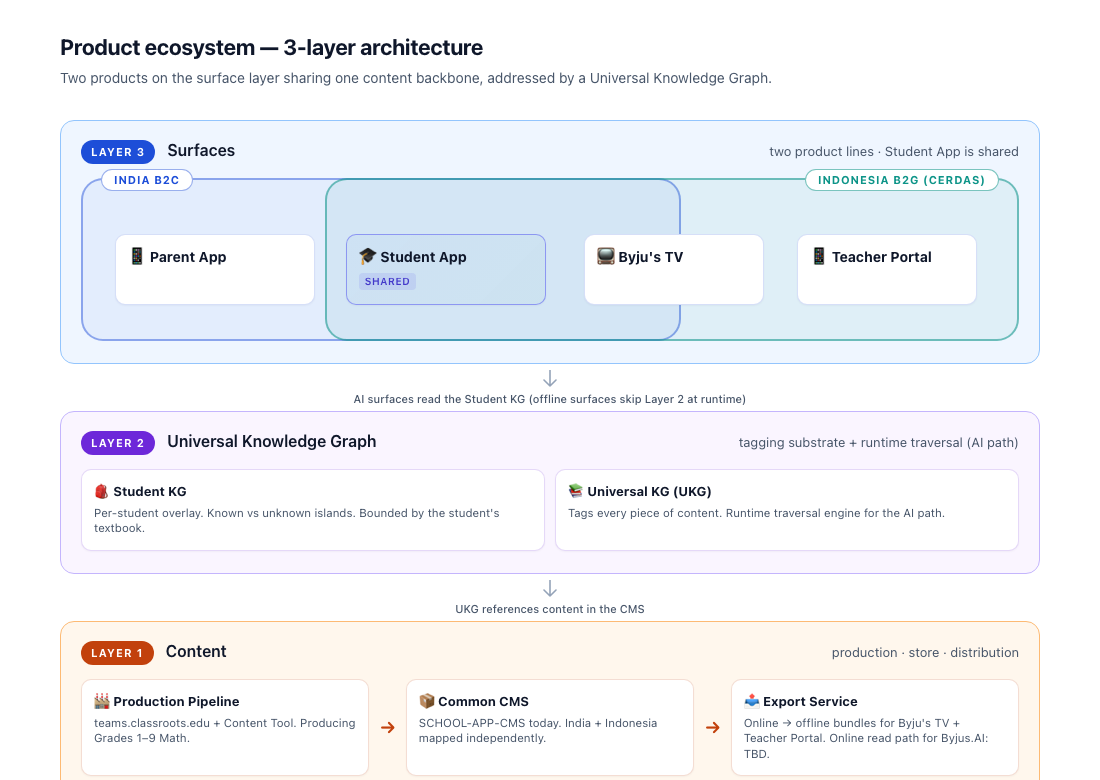
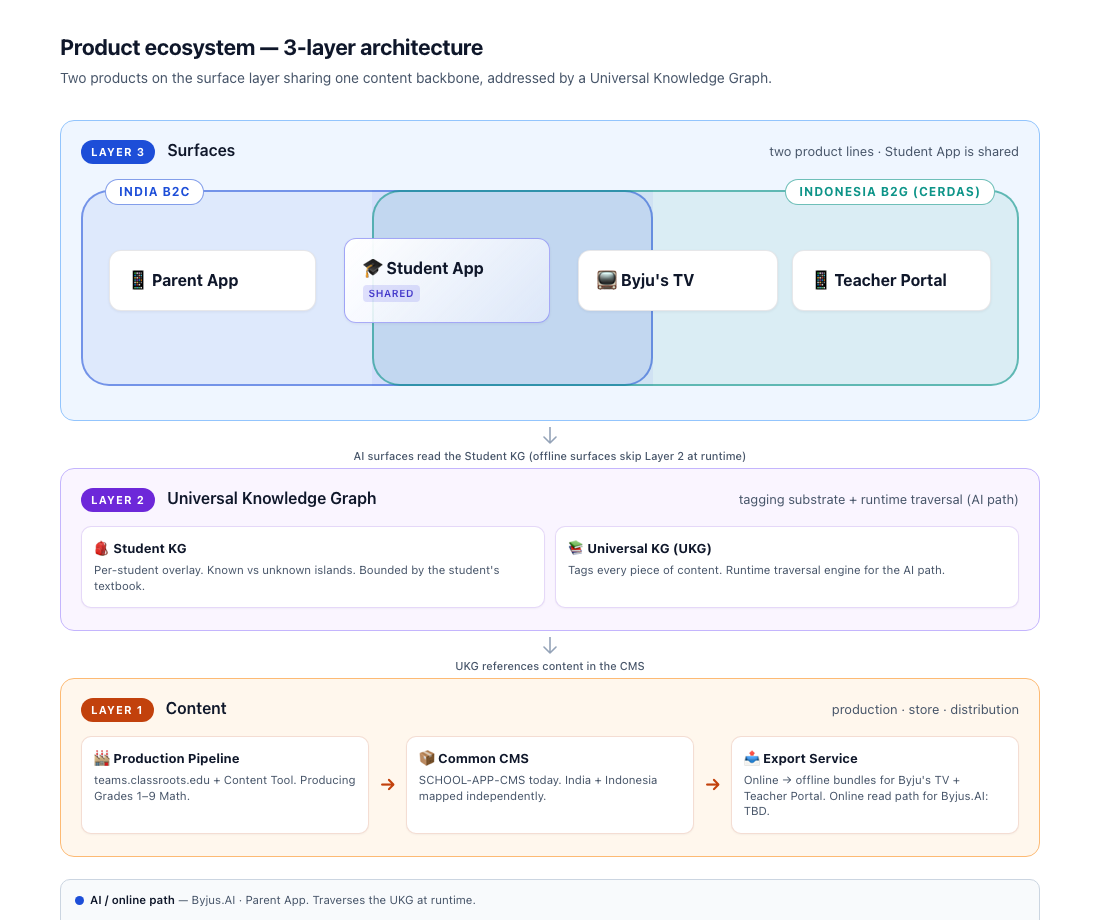
Layer 3: cleaner 3-region Venn with shaded intersection, bigger cards

Changed region(s): [[0.0618, 0.0308, 0.9273, 0.9846], [0.68, 0.5231, 0.9273, 0.5846], [0.0618, 0.4, 0.0927, 0.4308]]

diff --git a/ecosystem-3-layer.html b/ecosystem-3-layer.html
@@ -101,93 +101,98 @@
   /* Layer 3: Venn — India B2C and Indonesia B2G overlap on Student App */
   .layer-3 .venn {
     position: relative;
-    padding: 26px 0 12px;
+    padding: 28px 0 8px;
+    min-height: 220px;
   }
-  /* Two overlapping rounded-rectangle "product line" backgrounds */
+  /* Product-line outlines (rounded rectangles) */
   .product-line {
     position: absolute;
-    top: 0; bottom: 0;
-    border: 2px solid;
-    border-radius: 22px;
+    top: 12px; bottom: 12px;
+    border: 2.5px solid;
+    border-radius: 28px;
     pointer-events: none;
   }
   .product-line.india {
     left: 0;
-    right: 36%;
-    background: rgba(29, 78, 216, 0.06);
-    border-color: rgba(29, 78, 216, 0.45);
+    right: 39%;
+    background: rgba(29, 78, 216, 0.08);
+    border-color: rgba(29, 78, 216, 0.55);
     z-index: 1;
   }
   .product-line.indonesia {
-    left: 26%;
+    left: 31%;
     right: 0;
-    background: rgba(13, 148, 136, 0.07);
-    border-color: rgba(13, 148, 136, 0.55);
+    background: rgba(13, 148, 136, 0.09);
+    border-color: rgba(13, 148, 136, 0.6);
     z-index: 1;
+  }
+  /* Subtle deeper shade in the intersection (shared zone) */
+  .shared-bg {
+    position: absolute;
+    top: 12px; bottom: 12px;
+    left: 31%;
+    right: 39%;
+    background: rgba(99, 102, 241, 0.08);
+    z-index: 0;
+    pointer-events: none;
   }
   .product-line .pl-label {
     position: absolute;
-    top: -11px;
+    top: -13px;
     background: white;
-    padding: 2px 12px;
+    padding: 3px 13px;
     border-radius: 999px;
-    font-size: 11px;
+    font-size: 12px;
     font-weight: 700;
     letter-spacing: 0.08em;
     text-transform: uppercase;
   }
   .product-line.india .pl-label {
-    left: 18px;
+    left: 22px;
     color: rgba(29, 78, 216, 1);
-    border: 1.5px solid rgba(29, 78, 216, 0.45);
+    border: 1.5px solid rgba(29, 78, 216, 0.55);
   }
   .product-line.indonesia .pl-label {
-    right: 18px;
+    right: 22px;
     color: rgba(13, 148, 136, 1);
-    border: 1.5px solid rgba(13, 148, 136, 0.55);
+    border: 1.5px solid rgba(13, 148, 136, 0.6);
   }
 
-  /* Card row — three zones */
+  /* Three-region card grid */
   .venn-grid {
     position: relative;
     z-index: 2;
     display: grid;
     grid-template-columns: 1fr 1fr 2fr;
-    gap: 22px;
-    padding: 30px 30px 24px;
+    gap: 28px;
+    padding: 32px 28px 30px;
   }
   .venn-cell {
     display: grid;
-    grid-auto-rows: 1fr;
-    gap: 10px;
+    align-items: center;
+    gap: 14px;
   }
   .venn-cell.right {
     grid-template-columns: 1fr 1fr;
   }
-  .venn-cell.center .box {
-    border: 1.5px solid;
-    border-image: linear-gradient(135deg, rgba(29, 78, 216, 0.5), rgba(13, 148, 136, 0.55)) 1;
-    border-radius: 0;
-    background: linear-gradient(135deg, rgba(29, 78, 216, 0.03), rgba(13, 148, 136, 0.04));
-  }
-  .venn-cell.center .box {
-    border-radius: 10px;
-    border: 1.5px solid rgba(99, 102, 241, 0.6);
-  }
-  .box-tag.shared { background: rgba(99, 102, 241, 0.14); color: #4338ca; }
-  .box-tag.indonesia { background: rgba(13, 148, 136, 0.14); color: #0f766e; }
 
-  /* Slim surface cards — names only */
+  /* Big surface cards — names only */
   .surface-card {
-    padding: 14px 14px;
+    padding: 18px 18px;
     text-align: left;
     align-items: flex-start;
-    max-width: 200px;
-    margin: 0 auto;
     width: 100%;
+    border-radius: 12px;
+    background: white;
+    border: 1.5px solid rgba(15, 23, 42, 0.1);
+    box-shadow: 0 1px 3px rgba(15, 23, 42, 0.06);
   }
-  .surface-card .box-title { font-size: 14px; }
-  .venn-cell.right .surface-card { max-width: 180px; }
+  .surface-card .box-title { font-size: 16px; font-weight: 700; }
+  .surface-card.shared {
+    border: 1.5px solid rgba(99, 102, 241, 0.55);
+    background: linear-gradient(135deg, rgba(255,255,255,1), rgba(238, 242, 255, 0.6));
+  }
+  .box-tag.shared { background: rgba(99, 102, 241, 0.18); color: #4338ca; }
   /* Layer 2: 2 graphs */
   .layer-2 .boxes {
     grid-template-columns: 1fr 1fr;
@@ -321,6 +326,7 @@
   </div>
 
   <div class="venn">
+    <div class="shared-bg"></div>
     <div class="product-line india">
       <span class="pl-label">India B2C</span>
     </div>
@@ -329,27 +335,27 @@
     </div>
 
     <div class="venn-grid">
-      <!-- India-only zone -->
+      <!-- Region 1: India only -->
       <div class="venn-cell">
-        <div class="box surface-card">
+        <div class="surface-card">
           <div class="box-title">📱 Parent App</div>
         </div>
       </div>
 
-      <!-- Shared overlap zone -->
+      <!-- Region 2: Shared (intersection) -->
       <div class="venn-cell center">
-        <div class="box surface-card">
+        <div class="surface-card shared">
           <div class="box-title">🎓 Student App</div>
           <span class="box-tag shared">Shared</span>
         </div>
       </div>
 
-      <!-- Indonesia-only zone -->
+      <!-- Region 3: Indonesia only -->
       <div class="venn-cell right">
-        <div class="box surface-card">
+        <div class="surface-card">
           <div class="box-title">📺 Byju's TV</div>
         </div>
-        <div class="box surface-card">
+        <div class="surface-card">
           <div class="box-title">📱 Teacher Portal</div>
         </div>
       </div>